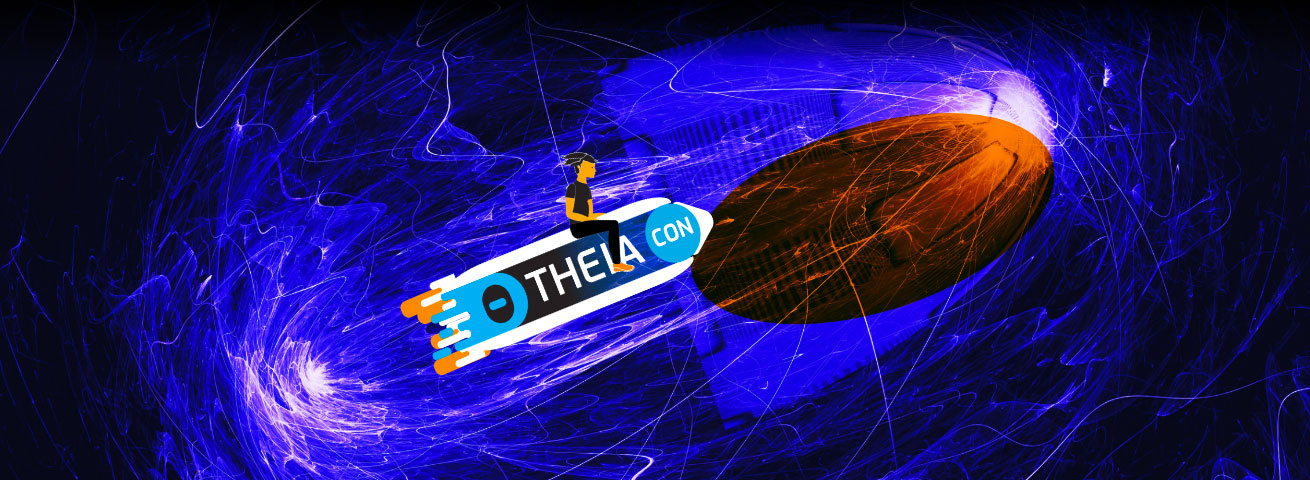
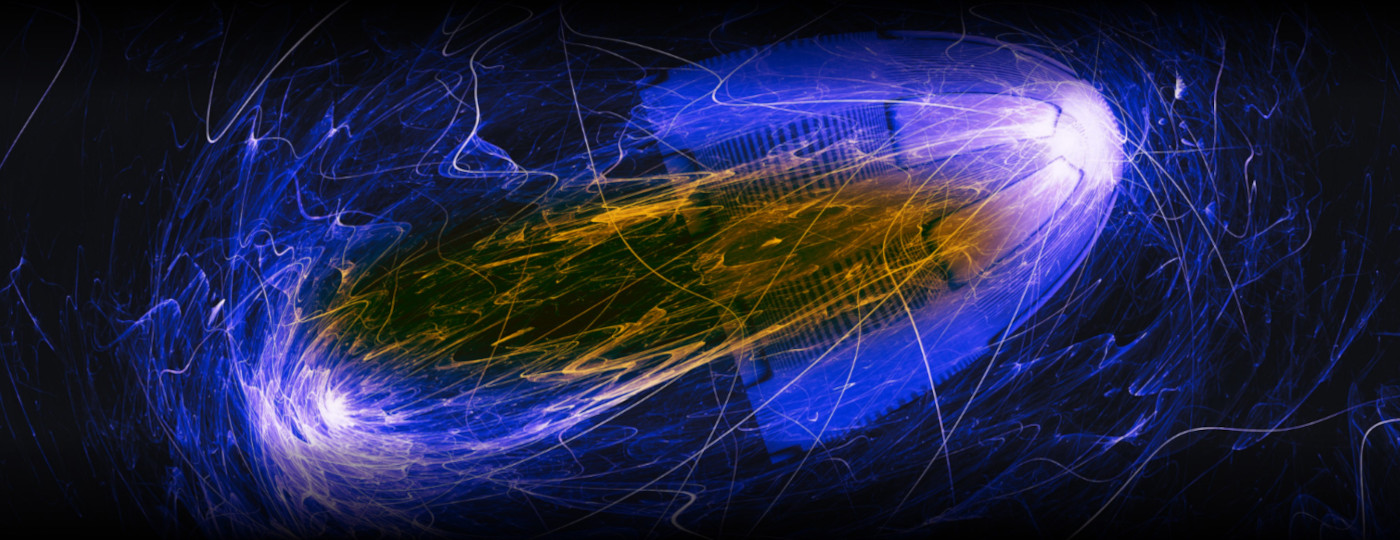
Updated jumbotron content

diff --git a/less/theiacon.less b/less/theiacon.less
@@ -1,12 +1,20 @@
 .header-theiacon-2021-event {
-  @media (min-width: 768px) {
-    background-image: url('images/theiacon/theia-background-image.jpg');
-    background-position: center;
-  }
-  background-image: url('images/theiacon/theia-mobile-background-image.jpg');
-  background-position: top 20% left;
+  background-image: url('images/theiacon/theia-background-image.jpg');
   background-size: cover;
-
+  background-position: center;
+  img.img-responsive {
+    @media (min-width: 768px) {
+      width: 200px;
+      margin-top: 10px;
+    }
+    @media (min-width: 992px) {
+      width: 260px;
+      margin-top: 5px;
+    }
+    margin-top: 5px;
+    width: 180px;
+    max-width: 260px;
+  }
   .featured-jumbotron {
     & {
       text-shadow: 2px 2px #000;
@@ -27,36 +35,57 @@
       @media (min-width: 768px) {
         align-items: flex-end;
       }
+      position: relative;
       display: flex;
       flex-direction: column;
       align-items: center;
+      .rocketCtn {
+        @media (min-width: 768px) {
+          right: 400px;
+          top: 0;
+        }
+        @media (min-width: 992px) {
+          right: 510px;
+          width: 450px;
+          height: 320px;
+        }
+        right: calc(50vw - 175px);
+        top: 90px;
+        width: 350px;
+        height: 240px;
+        position: absolute;
+        background-image: url('images/theiacon/theia-rocket-whitefonts.png');
+        background-position: center;
+        background-size: contain;
+        background-repeat: no-repeat;
+      }
       h1 {
         @media (min-width: 768px) {
           margin: 60px 0 0;
-          width: 260px;
+          width: 380px;
           text-align: left;
         }
         @media (min-width: 992px) {
-          width: 355px;
+          width: 480px;
         }
         margin-top: -15px;
         text-align: center;
       }
       h2 {
         @media (min-width: 768px) {
-          margin: 0 0 90px;
+          margin: 0 0 40px;
           text-align: left;
-          width: 260px;
+          width: 380px;
         }
         @media (min-width: 992px) {
-          margin: 0 0 40px;
           font-size: 26px;
-          width: 355px;
+          width: 480px;
         }
         text-align: center;
         font-size: 20px;
         font-weight: 500;
-        margin-top: 40vw;
+        margin-top: 230px;
+        color: #00e2ff;
       }
     }
 

diff --git a/content/2021/theiacon/_index.md b/content/2021/theiacon/_index.md
@@ -3,8 +3,8 @@ logo: '2021/theiacon/images/logos/theiacon-logo.svg'
 title: 'TheiaCon 2021'
 seo_title: 'TheiaCon 2021'
 headline: |
-  <div class='headerCtn'><h1>Jump Aboard the <br> Theia Rocketship</h1> <h2>Leading the Next Generation <br> of Cloud IDE Development</h2></div>
-tagline: 'Virtual Conference | November 17, 2021'
+  <div class='headerCtn'><div class="rocketCtn"></div><h1>Leading the Next <br> Generation of Cloud <br> IDE Development</h1> <h2>Virtual Conference | November 17, 2021</h2></div>
+tagline: ''
 summary: 'TheiaCon is a virtual conference focused around the Eclipse Theia IDE ecosystem. It brings together a diverse group of Theia developers, adopters, and other contributors. The program will feature a mix of full-length talks, expert panel discussions and short ”lightning talks” focused on project insider, adopter, and broader ecosystem stories. This event is hosted by the Eclipse Foundation’s Cloud DevTools Working Group and is open to anyone interested in learning more about Cloud IDE development and the Theia project.'
 date: 2021-11-17
 header_wrapper_class: 'header-theiacon-2021-event'
